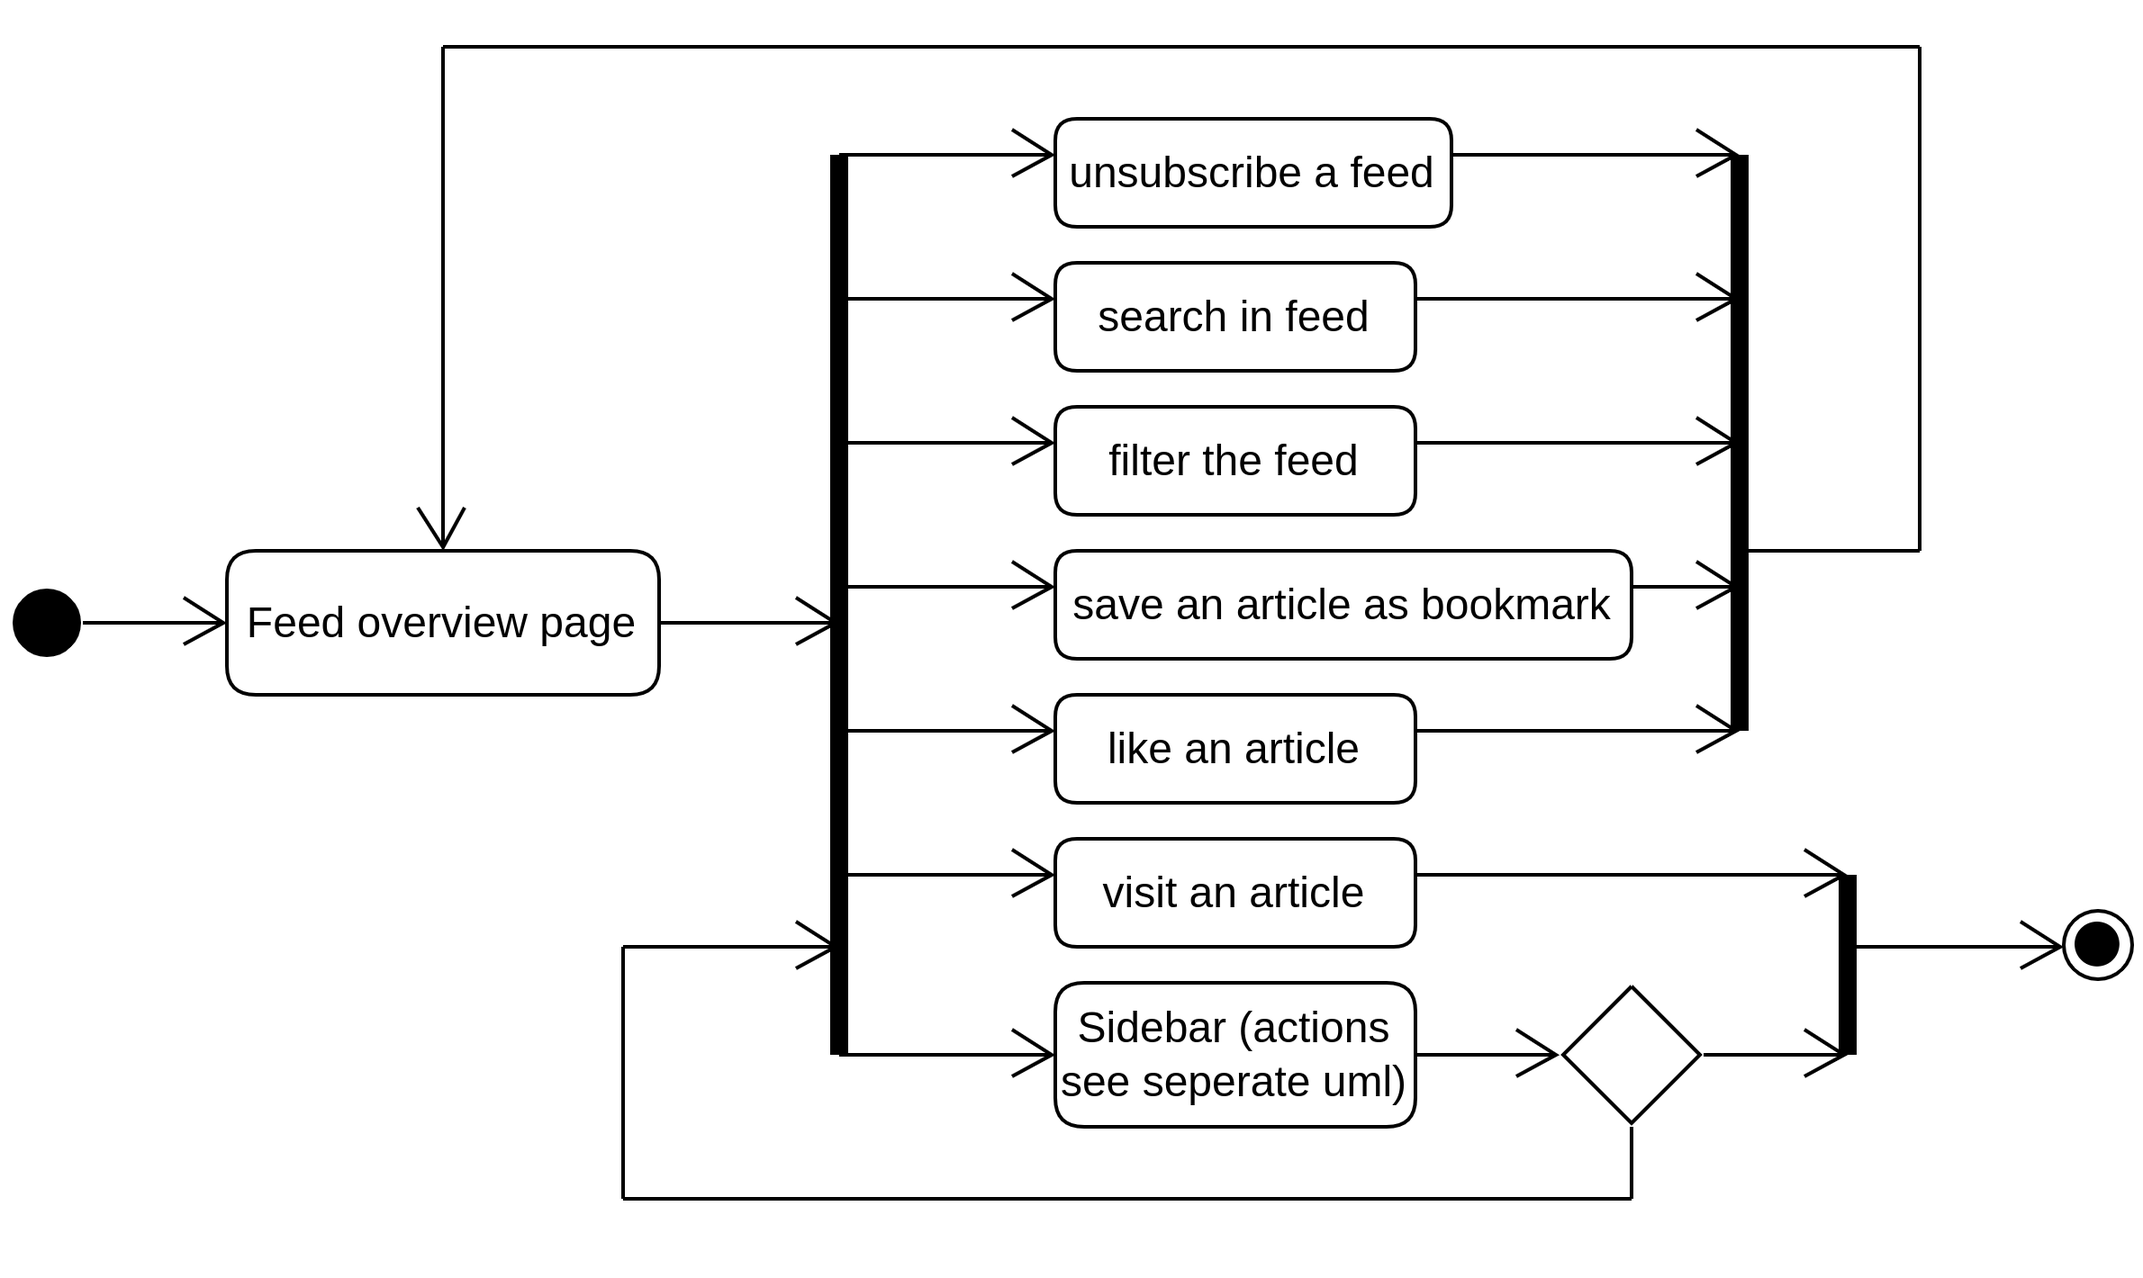
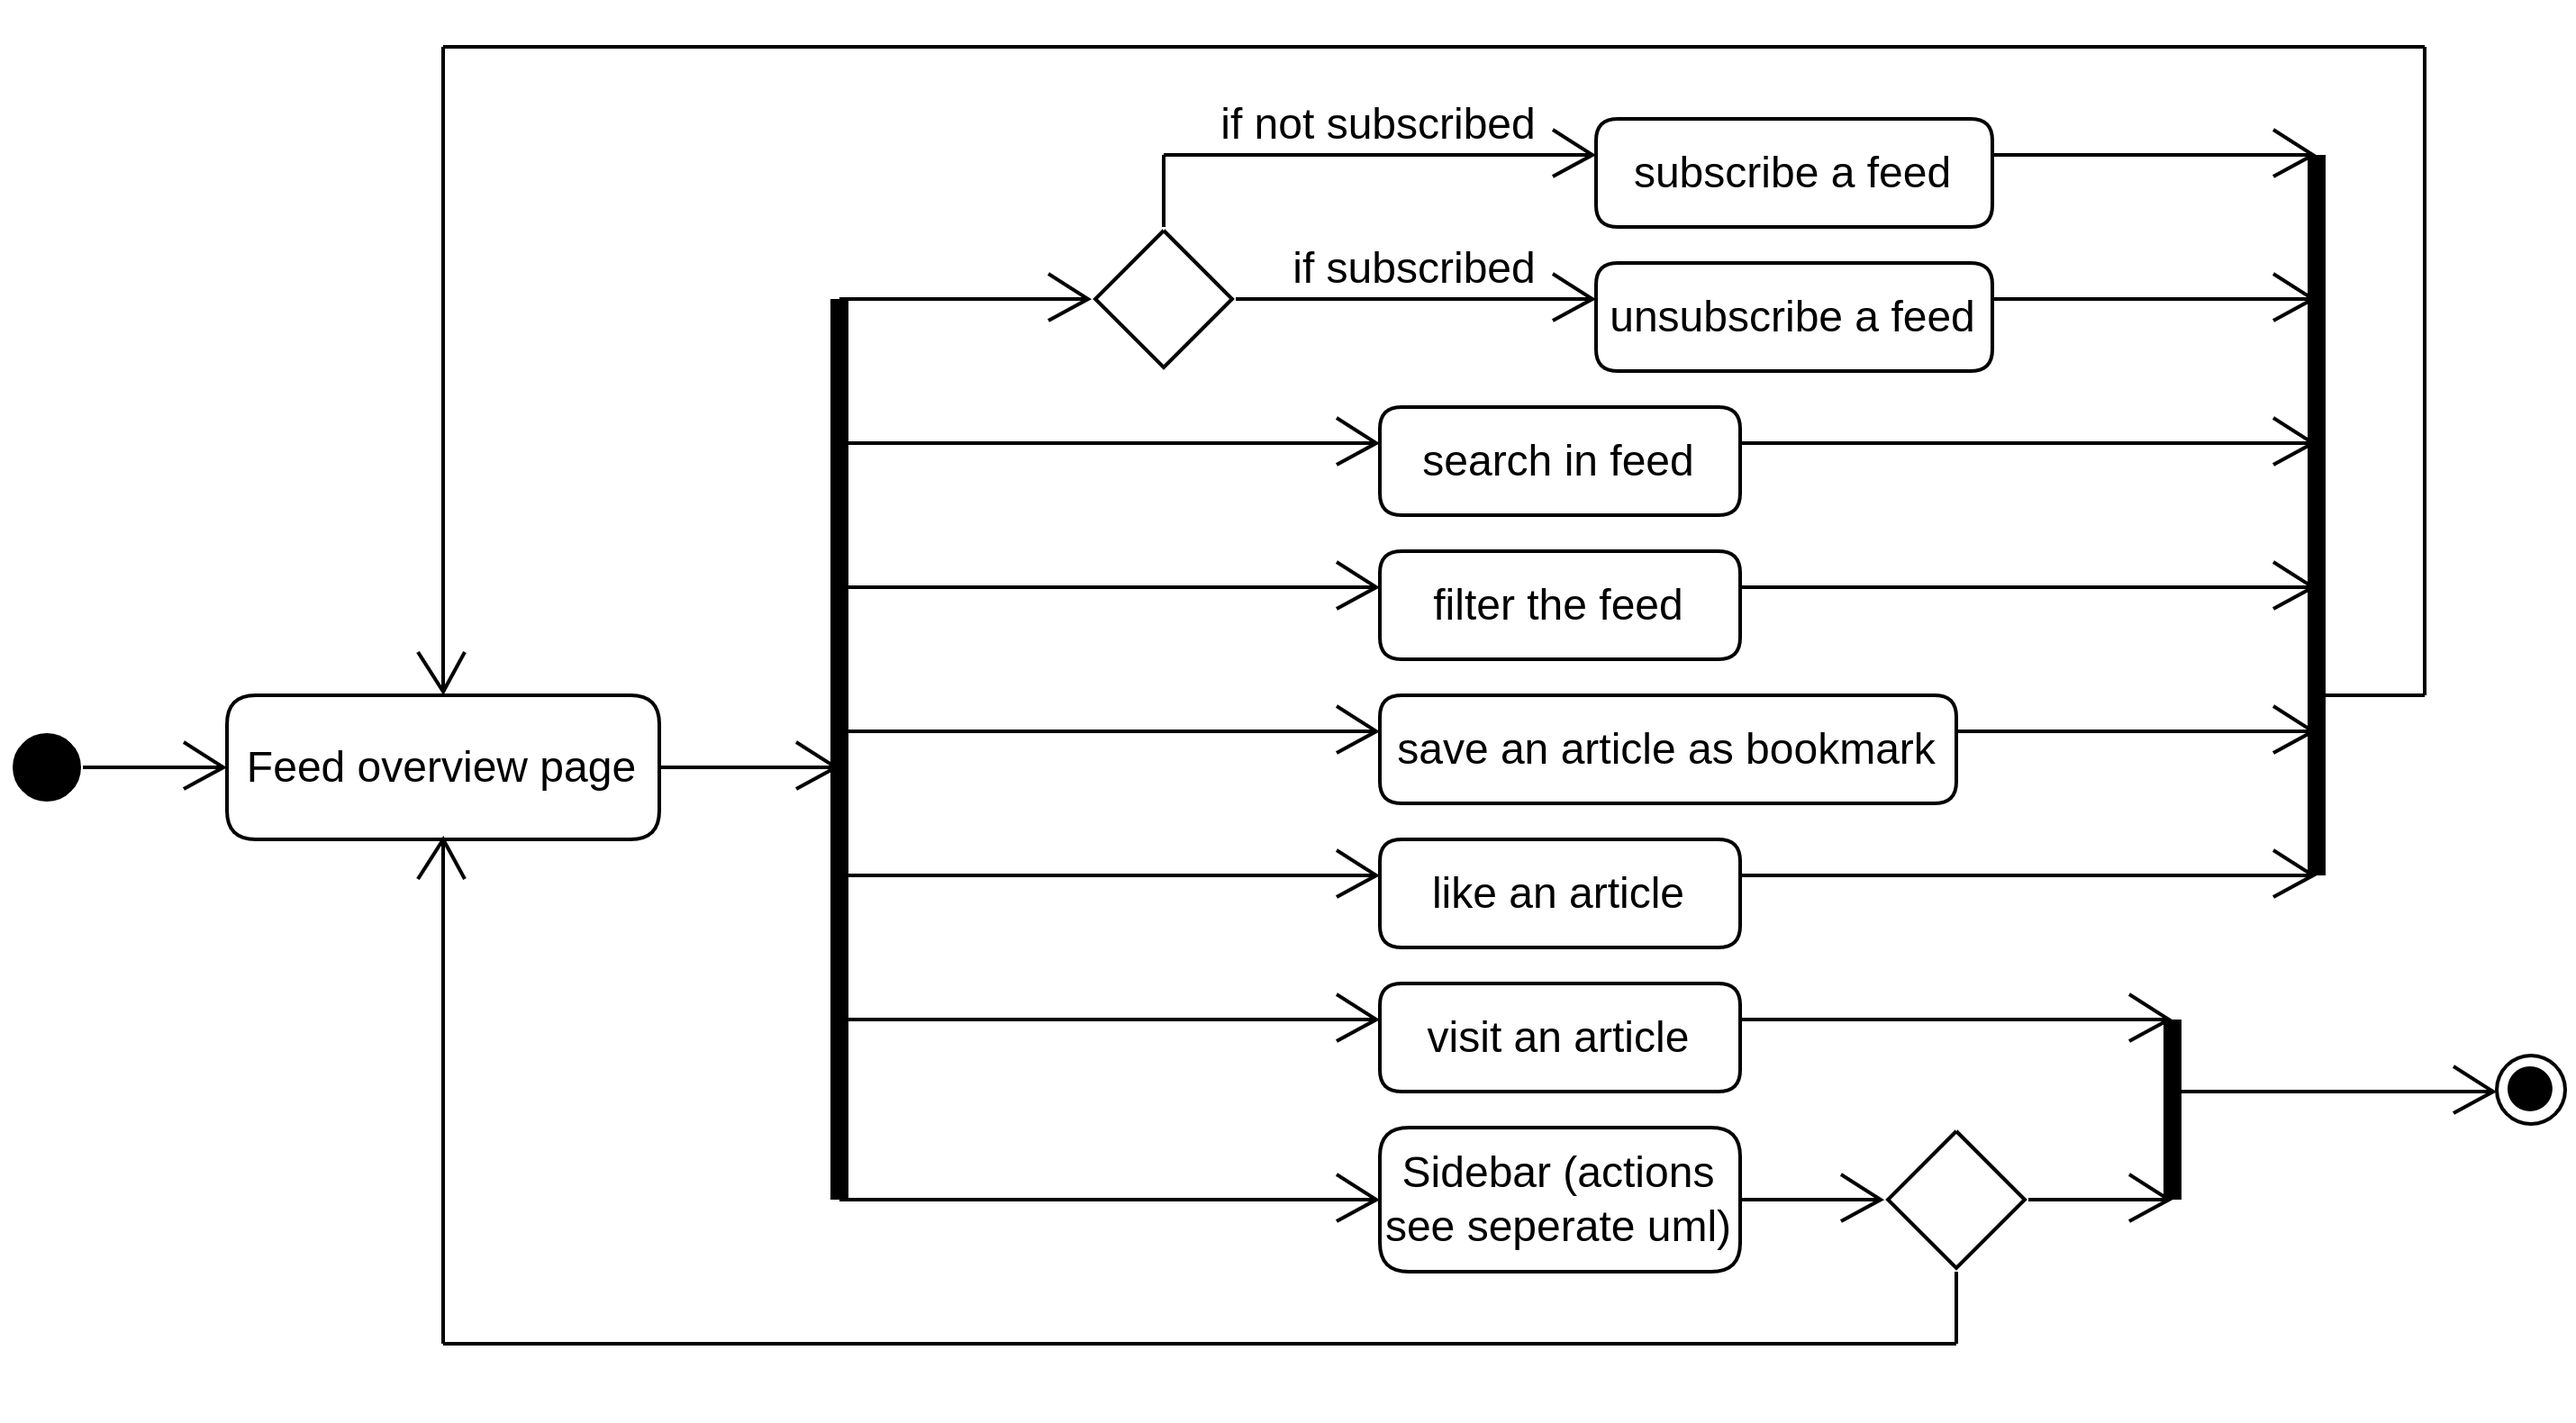
Korrekturen nach erstem Review

diff --git a/content/05kapitel.tex b/content/05kapitel.tex
@@ -143,14 +143,15 @@ Zu jedem Zeitpunkt kann die Registrierung abgebrochen und zur Loginseite zurück
     \label{fig:umlActivityRegister.png}
 \end{figure}
 
-Die Sidebar ist auf jeder Seite mit Außnahme Login-, Registrierungs- und Add-Feedseite erreichbar.
-In Abbildung~\ref{fig:umlActivitySidebar.png} werden die möglichen Aktionen der Sidebar dargestellt.
-Von dieser kann direkt zwischen Dark- und Light-Mode umgeschalten werden. Zudem kann man sich direkt einloggen
-oder falls bereits geschehen auf die Einstellungen gewechselt werden. Unter der Voraussetzung, dass der Benutzer eingeloggt ist kann direkt zu den
-Empfehlungen, den Lesezeichen, den Abonnements und Explore gewechselt werden. Zusätzlich kann direkt ein neuer RSS Feed hinzugefügt werden.
+Die Seitenleiste ist auf jeder Seite mit Außnahme Login- und Registrierungsseite, sowie während des Pop-ups zum Hinzufügen eines Feeds erreichbar.
+In Abbildung~\ref{fig:umlActivitySidebar.png} werden die möglichen Aktionen der Seitenleiste dargestellt.
+Von dieser kann direkt zwischen Dark- und Light-Mode umgeschalten werden. Zudem kann man sich einloggen
+oder falls bereits geschehen auf die Einstellungen gewechselt werden. Die Schaltfläche des Login wird nach erfolgreichem Login auf Settings geändert.
+Unter der Voraussetzung, dass der Benutzer eingeloggt ist, kann direkt zu den
+Empfehlungen, den Lesezeichen und den Abonnements gewechselt werden. Zusätzlich kann direkt ein neuer RSS Feed hinzugefügt werden.
 \begin{figure}
     \includegraphics[width=\linewidth]{umlActivitySidebar.png}
-    \caption{Aktivitätsdiagramm der Sidebar}
+    \caption{Aktivitätsdiagramm der Seitenleiste}
     \label{fig:umlActivitySidebar.png}
 \end{figure}
 
@@ -163,7 +164,7 @@ Das Aktivitätsdiagramm ist in Abbildung~\ref{fig:umlActivityOverview.png} darge
 \end{figure}
 
 In Abbildung~\ref{fig:umlActivityFeed.png} werden die möglichen Aktionen auf der Feedseite dargestellt.
-Der aufgerufene Feed kann aus den Abonnement ausgetragen werden. Im Feed kann gefiltert und/ oder gesucht werden.
+Der aufgerufene Feed kann abonniert und deabonniert werden. Im Feed kann gefiltert und/oder gesucht werden.
 Einzelne Artikel können als Lesezeichen gespeichert oder geliked werden. Per Klick auf den Artikel kann dieser aufgerufen werden.
 \begin{figure}
     \includegraphics[width=\linewidth]{umlActivityFeed.png}
@@ -171,8 +172,8 @@ Einzelne Artikel können als Lesezeichen gespeichert oder geliked werden. Per Kl
     \label{fig:umlActivityFeed.png}
 \end{figure}
 
-Auf der Artikelseite kann wie in Abbildung~\ref{fig:umlActivityView.png} dargestellt der Artikel gelesen werden.
-Darüber hinaus kann der Artikel als Lesezeichen gespeichert, geliked und/oder geteilt werden.
+Auf der Artikelseite kann, wie in Abbildung~\ref{fig:umlActivityView.png} dargestellt der Artikel gelesen werden.
+Darüber hinaus kann der Artikel als Lesezeichen gespeichert, geliked und/oder geteilt werden (Link wird in die Zwischenablage kopiert).
 Auch die Feedseite des Artikels kann aufgerufen werden. Die Ursprungswebseite des Artikels kann auch geöffnet werden.
 Unter den ähnlichen Artikeln kann zu diesem per Klick gewechselt werden.
 \begin{figure}
@@ -192,8 +193,10 @@ Einzelne Artikel können aus den Lesezeichen gelöscht werden. Auch können einz
 \end{figure}
 
 Die Aktivitäten der Abonnementsseite werden in Abbildung~\ref{fig:umlActivitySubscription.png} abgebildet.
-Die Abonnements können gefiltert und/oder darin gesucht werden. Jeder abonnierte Feed kann abgewählt werden.
-Ein Feed kann ausgeklappt werden und einzelne Artikel geliked oder als Lesezeichen gespeichert werden.
+Die Abonnements können gefiltert und/oder durchsucht werden. Jeder abonnierte Feed per Klick auf diesen aufgerufen werden.
+Ein Feed kann ausgeklappt werden und die 10 aktuellsten Artikel werden angezeigt.
+Die gezeigten einzelnen Artikel geliked oder als Lesezeichen gespeichert werden.
+
 Die Artikel können mit einem Klick aufgerufen werden.
 \begin{figure}
     \includegraphics[width=\linewidth]{umlActivitySubscription.png}
@@ -202,9 +205,10 @@ Die Artikel können mit einem Klick aufgerufen werden.
 \end{figure}
 
 In der Abbildung~\ref{fig:umlActivityAddFeed.png} wird der Ablauf zum Hinzufügen eines neuen Feeds dargestellt.
-Ein RSS-Link wird eingetragen und mit klick auf "load" wird der Link geprüft. Ist der Link fehlerbehaftet muss er korrigiert werden.
+Ein RSS-Link wird eingetragen und mit klick auf \enquote{load} wird der Link geprüft.
+Ist der Link fehlerbehaftet oder entspricht er nicht unserem Schema muss er korrigiert werden.
 Funktioniert der Link werden Name und Beschreibung vorausgefüllt.
-Der Name und die Beschreibung kann vor dem finalen hinzufügen noch angepasst werden.
+Der Name und die Beschreibung kann vor dem finalen Hinzufügen noch angepasst werden.
 Das Hinzufügen eines Feeds kann jederzeit über die Schaltfläche verlassen werden.
 \begin{figure}
     \includegraphics[width=\linewidth]{umlActivityAddFeed.png}
@@ -213,7 +217,7 @@ Das Hinzufügen eines Feeds kann jederzeit über die Schaltfläche verlassen wer
 \end{figure}
 
 Der Nutzer kann die Einstellungen gemäß Abbildung~\ref{fig:umlActivitySettings.png} ändern.
-Es können die Accounteinstellungen, die Benachrichtigung und das Farbschema angepasst werden.
+Es können die Accounteinstellungen und das Farbschema angepasst werden.
 Ausloggen kann sich der Nutzer in den Einstellungen auch.
 \begin{figure}
     \includegraphics[width=\linewidth]{umlActivitySettings.png}

diff --git a/content/04kapitel.tex b/content/04kapitel.tex
@@ -285,6 +285,27 @@ Das Ticket \enquote{SKIOS-23 Design Logo} hatte folgende User Story:
 Bearbeitet von Sabrina Ladner.
 Reviewed von Lukas Huida.
 
+\subsubsection{SKIOS-55 Skiosa Colorscheme}
+Das Ticket \enquote{SKIOS-55 Skiosa Colorscheme} hatte folgende User Story:
+\begin{quotation}
+    As a ui/ux designer, i would like to know which colors to use for mockups. \\
+    \textbf{Ideas for a possible solution}
+    \begin{itemize}
+    \item Look at colors already used by the figma mockups 
+    \item Modify Logo or colors (ex. dark blue to dark green)
+    \item Possibly use a color scheme generator as suggested by Simon Morgenstern
+    \end{itemize}
+    \textbf{Acceptance Criteria}
+    \begin{itemize}
+    \item A colorscheme has been created
+    \item Colorscheme is decided on and briefly documented under “UI/UX” in confluence
+    \item Colorscheme has light and dark mode
+    \item Ladner Sabrina's Logo now reflects this color scheme
+    \end{itemize}
+\end{quotation}
+Bearbeitet von Sabrina Ladner.
+Reviewed von Amos Groß.
+
 \section{Sprint 2}
 \subsection{Produktincrement}
 \subsection{Charts}
@@ -385,27 +406,6 @@ Das Ticket \enquote{SKIOS-85 Repeated Polling runs} hatte folgende User Story:
 \end{quotation}
 Bearbeitet von Lukas Huida.
 Reviewed von Tim Horlacher.
-
-\subsubsection{SKIOS-55 Skiosa Colorscheme}
-Das Ticket \enquote{SKIOS-55 Skiosa Colorscheme} hatte folgende User Story:
-\begin{quotation}
-    As a ui/ux designer, i would like to know which colors to use for mockups. \\
-    \textbf{Ideas for a possible solution}
-    \begin{itemize}
-    \item Look at colors already used by the figma mockups 
-    \item Modify Logo or colors (ex. dark blue to dark green)
-    \item Possibly use a color scheme generator as suggested by Simon Morgenstern
-    \end{itemize}
-    \textbf{Acceptance Criteria}
-    \begin{itemize}
-    \item A colorscheme has been created
-    \item Colorscheme is decided on and briefly documented under “UI/UX” in confluence
-    \item Colorscheme has light and dark mode
-    \item Ladner Sabrina's Logo now reflects this color scheme
-    \end{itemize}
-\end{quotation}
-Bearbeitet von Sabrina Ladner.
-Reviewed von Amos Groß.
 
 \section{Sprint 3}
 
@@ -847,19 +847,19 @@ Das Ticket \enquote{SKIOS-56 Common Figma Components} hatte folgende User Story:
         \item Article Tiles
         \item etc.
     \end{itemize}
-    More Information for how to create common components can be found at
-    https://help.figma.com/hc/en-us/articles/360038662654-Guide-to-Components-in-Figma \\
+    More Information for how to create common components can be found at\\
+    \url{https://help.figma.com/hc/en-us/articles/360038662654-Guide-to-Components-in-Figma}\\
     \textbf{Ideas for a possible solution}
     \begin{itemize}
         \item Look at design guidelines for fonts, separation, etc. (should comply with it)
         \item Possibly copy some ideas from mockups you can find on the internet: ex.
-        https://www.behance.net/gallery/104152447/Mobile-App-Design-Challenge-Figma-Free-UXUI-2 \\
+        \url{https://www.behance.net/gallery/104152447/Mobile-App-Design-Challenge-Figma-Free-UXUI-2} \\
     \end{itemize}
     \textbf{Acceptance Criteria}
     \begin{itemize}
         \item The components above have common components in figma
         \item Components are in a seperate page in figma
-        (see https://help.figma.com/hc/en-us/articles/360038511293-Create-and-Manage-Pages) \\
+        (see \url{https://help.figma.com/hc/en-us/articles/360038511293-Create-and-Manage-Pages}) \\
     \end{itemize}
 \end{quotation}
 Bearbeitet von Sabrina Ladner.
@@ -937,3 +937,18 @@ Das Ticket \enquote{SKIOS-166 \LaTeX Technical Changelog} hatte folgende User St
 Bearbeitet von Tim Horlacher.
 Reviewed von Amos Groß.
 
+\subsubsection{SKIOS-126 \LaTeX Frontend Pages Explanation and Activity Chart}
+Das Ticket \enquote{SKIOS-126 \LaTeX Frontend Pages Explanation and Activity Chart} hatte folgende User Story:
+\begin{quotation}
+    As a team member I would like to have our use frontend pages documented in confluence so that I won’t fail this class.
+\textbf{Acceptance Criteria}
+\begin{itemize}
+    \item A page is created in LaTeX
+    \item Page is spellchecked
+    \item Page ist integrated into our Mockups page (See linked issue)
+    \item Page includes Aktionsdiagramm for all pages of our application
+    \item Page explains the diagrams in text form (prosa)
+\end{itemize}
+\end{quotation}
+Bearbeitet von Sabrina Ladner.
+Reviewed von Amos Groß.

diff --git a/ads/header.tex b/ads/header.tex
@@ -254,6 +254,7 @@
 %\usepackage[list=true]{subcaption}
 
 % PDF Einstellungen
+\PassOptionsToPackage{hyphens}{url}     % ermöglicht Zeilenumbruch in URLs bei Bindestrichen (Jannik hat mich gezwungen)
 \usepackage[%
     pdftitle={\titel},
     pdfsubject={\arbeit},

diff --git a/README.md b/README.md
@@ -1,20 +1,25 @@
 # documentation
+
 Documentation for Skiosa in LaTeX
 
 # Create Release
+
 To create a Release with the PDF File you have to do the following steps
-- Commit and Push your Changes
-- Create a Tag like ``git tag -a v0.0.3 -m "My Tag Message"``
-- Push the new Tag ``git push --tags``
+
+* Commit and Push your Changes
+* Create a Tag like `git tag -a v0.0.3 -m "My Tag Message"`
+* Push the new Tag `git push --tags`
 
 After that the CI/CD – Pipeline will be triggered by the created Tag and will publish a new PDF File.
 
 # UML Diagramms
-UML Diagramms are found in ./uml/
-UML Diagramms are each in one File with Fileextension .uxf and are edited with theumletteam.umlet.
+
+UML Diagramms are found in ./uml/ UML Diagramms are each in one File with Fileextension .uxf and are edited with theumletteam.umlet.
 
 ## Import UML diagramm in LaTeX
+
 To import the created UML diagramm in LaTeX do the following steps:
- - Create your UML Diagramm
- - Export as PNG (F1 > Umlet: Export as PNG)
- - Import PNG in Latex with figure Enviroment
+
+* Create your UML Diagramm
+* Export as PNG (F1 > Umlet: Export as PNG)
+* Import PNG in Latex with figure Enviroment
